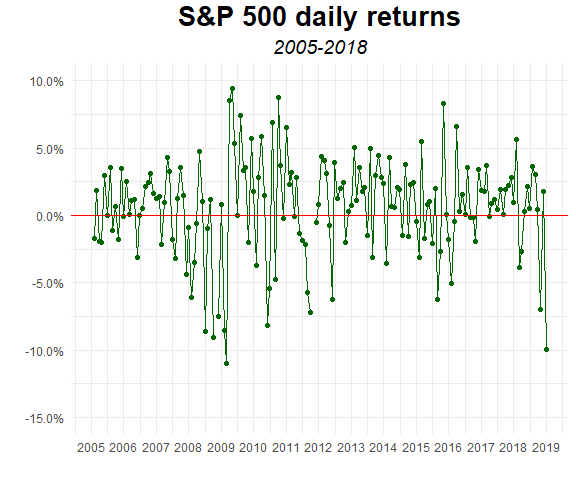
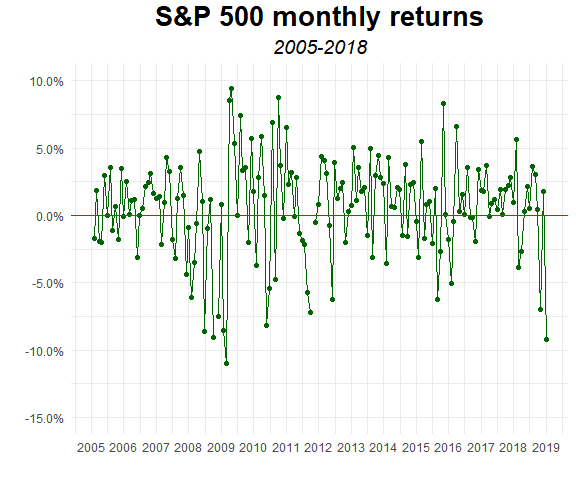
edit files

diff --git a/stock_market_indexes.md b/stock_market_indexes.md
@@ -103,7 +103,7 @@ sp500_monthly_returns %>%
         plot.subtitle = element_text(size = 14,
                                      hjust = 0.5,
                                      face = "italic")) +
-  labs(title = "S&P 500 daily returns",
+  labs(title = "S&P 500 monthly returns",
        subtitle = "2005-2018",
        x = "", y = "")
 ```
